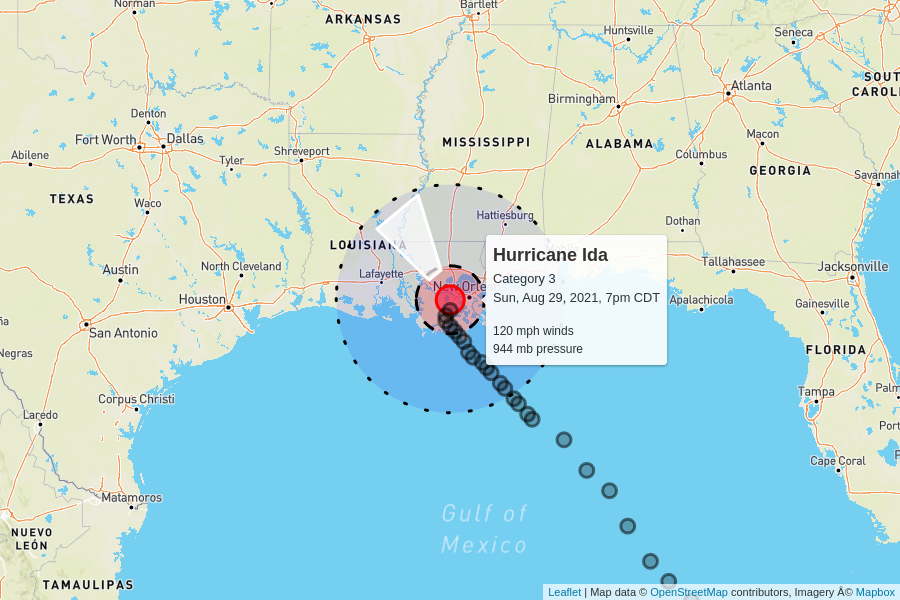
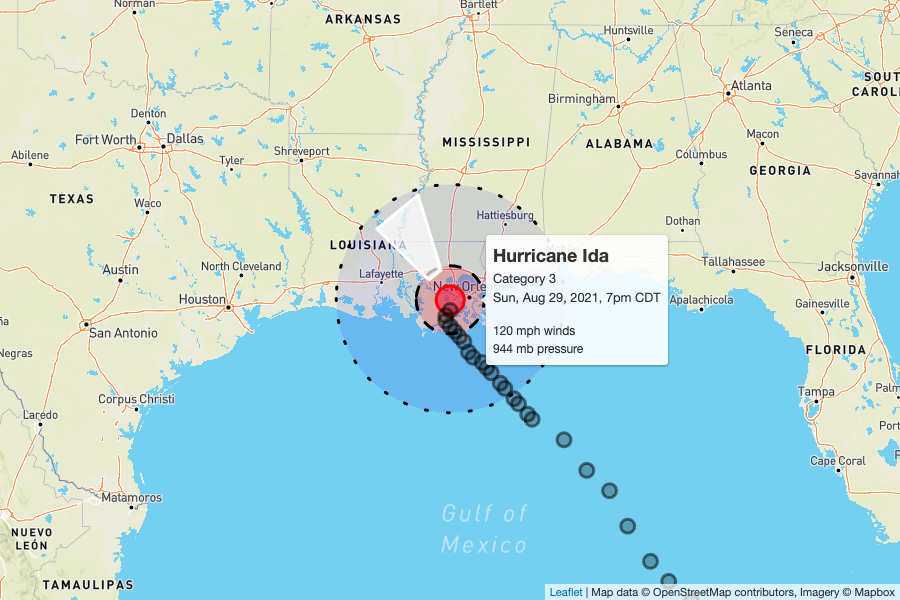
update map attribution

Changed region(s): [[0.5911, 0.96, 0.9956, 1.0], [0.56, 0.42, 0.7467, 0.51], [0.56, 0.54, 0.6533, 0.6]]

diff --git a/docs/index.html b/docs/index.html
@@ -80,6 +80,11 @@
       table th + th, table td + td {
         padding-left: 1em;
       }
+
+      figcaption {
+        font-size: 0.7em;
+        text-align: right;
+      }
     </style>
   </head>
   <body>
@@ -123,7 +128,14 @@
       <tr>
         <td class="spacer">
         <td colspan="5">
-          <img src="AL092021.png">
+          <figure>
+            <img src="AL092021.png">
+            <figcaption>
+              Map data &copy; <a href="https://www.openstreetmap.org/copyright">OpenStreetMap</a> contributors,
+              Imagery &copy; <a href="https://www.mapbox.com/">Mapbox</a> |
+              <a href="<a href="https://www.mapbox.com/map-feedback/" target="_blank">Improve this map</a>
+            </figcaption>
+          </figure>
         </td>
       </tr>
       
@@ -160,7 +172,14 @@
       <tr>
         <td class="spacer">
         <td colspan="5">
-          <img src="AL102021.png">
+          <figure>
+            <img src="AL102021.png">
+            <figcaption>
+              Map data &copy; <a href="https://www.openstreetmap.org/copyright">OpenStreetMap</a> contributors,
+              Imagery &copy; <a href="https://www.mapbox.com/">Mapbox</a> |
+              <a href="<a href="https://www.mapbox.com/map-feedback/" target="_blank">Improve this map</a>
+            </figcaption>
+          </figure>
         </td>
       </tr>
       
@@ -197,7 +216,14 @@
       <tr>
         <td class="spacer">
         <td colspan="5">
-          <img src="AL112021.png">
+          <figure>
+            <img src="AL112021.png">
+            <figcaption>
+              Map data &copy; <a href="https://www.openstreetmap.org/copyright">OpenStreetMap</a> contributors,
+              Imagery &copy; <a href="https://www.mapbox.com/">Mapbox</a> |
+              <a href="<a href="https://www.mapbox.com/map-feedback/" target="_blank">Improve this map</a>
+            </figcaption>
+          </figure>
         </td>
       </tr>
       

diff --git a/src/web.js b/src/web.js
@@ -146,6 +146,11 @@ export default async () => {
       table th + th, table td + td {
         padding-left: 1em;
       }
+
+      figcaption {
+        font-size: 0.7em;
+        text-align: right;
+      }
     </style>
   </head>
   <body>
@@ -206,7 +211,14 @@ export default async () => {
       <tr>
         <td class="spacer">
         <td colspan="5">
-          <img src="${storm.id}.png">
+          <figure>
+            <img src="${storm.id}.png">
+            <figcaption>
+              Map data &copy; <a href="https://www.openstreetmap.org/copyright">OpenStreetMap</a> contributors,
+              Imagery &copy; <a href="https://www.mapbox.com/">Mapbox</a> |
+              <a href="<a href="https://www.mapbox.com/map-feedback/" target="_blank">Improve this map</a>
+            </figcaption>
+          </figure>
         </td>
       </tr>`
       }

diff --git a/src/map.html b/src/map.html
@@ -40,7 +40,7 @@
           "https://api.mapbox.com/styles/v1/{id}/tiles/{z}/{x}/{y}?access_token={accessToken}",
           {
             attribution:
-              'Map data &copy; <a href="https://www.openstreetmap.org/copyright">OpenStreetMap</a> contributors, Imagery © <a href="https://www.mapbox.com/">Mapbox</a>',
+              'Map data &copy; OpenStreetMap contributors, Imagery &copy; Mapbox',
             maxZoom: 18,
             id: "mapbox/streets-v11",
             tileSize: 512,
